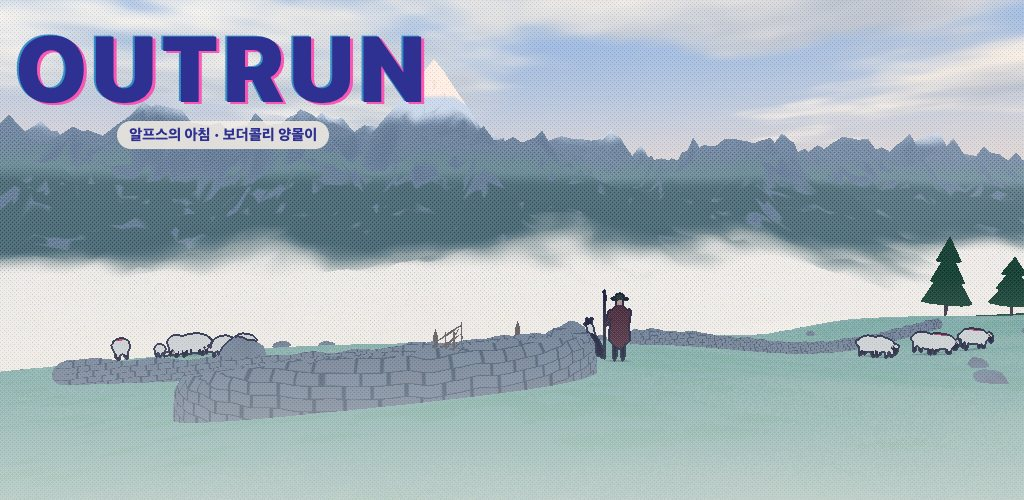
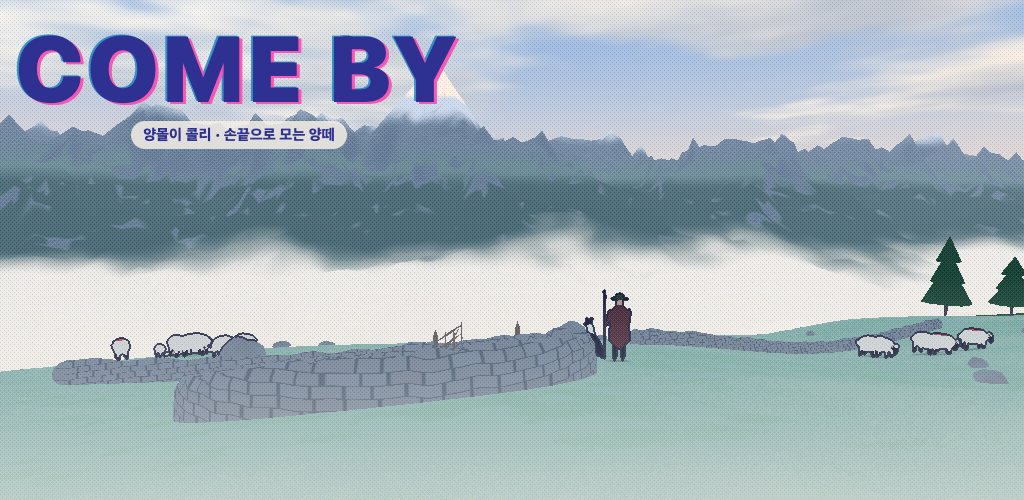
Rename the game: Come By: 양몰이 콜리

Changed region(s): [[0.0625, 0.06, 0.4688, 0.21], [0.0938, 0.24, 0.3438, 0.3]]

diff --git a/privacy.html b/privacy.html
@@ -3,7 +3,7 @@
 <head>
 <meta charset="utf-8">
 <meta name="viewport" content="width=device-width, initial-scale=1">
-<title>개인정보처리방침 — 아웃런: 보더콜리 양몰이</title>
+<title>개인정보처리방침 — Come By: 양몰이 콜리</title>
 <link rel="icon" href="assets/favicon.png">
 <style>
 :root{--paper:#F4EFE6;--paper2:#EAE2D2;--ink:#2E3192;--pink:#FF48B0}
@@ -20,9 +20,9 @@ hr{border:0;border-top:2px solid var(--ink);margin:40px 0}
 </head>
 <body>
 <div class="wrap">
-  <a class="back" href="./">← 아웃런</a>
+  <a class="back" href="./">← Come By</a>
   <h1>개인정보처리방침</h1>
-  <p class="meta">아웃런: 보더콜리 양몰이 · 개발자 sjhong · 시행일 2026년 9월 30일(광고 SDK 변경 반영)</p>
+  <p class="meta">Come By: 양몰이 콜리 · 개발자 sjhong · 시행일 2026년 9월 30일(광고 SDK 변경 반영)</p>
 
   <h2>1. 앱이 직접 수집하는 정보</h2>
   <p>앱은 이용자의 이름, 연락처, 계정 같은 개인정보를 수집하지 않으며 개발자의 서버로 아무것도 보내지 않습니다.
@@ -60,7 +60,7 @@ hr{border:0;border-top:2px solid var(--ink);margin:40px 0}
   <hr>
 
   <h1 id="en">Privacy Policy</h1>
-  <p class="meta">Outrun: Border Collie Herding · Developer sjhong · Effective 30 September 2026</p>
+  <p class="meta">Come By: Herding Collie · Developer sjhong · Effective 30 September 2026</p>
   <h2>1. Data the app collects itself</h2>
   <p>None. The app does not collect names, contacts or accounts and sends nothing to the developer's servers. Game progress
   and settings are stored only on your device and are removed when you delete the app.</p>

diff --git a/index.html b/index.html
@@ -3,7 +3,7 @@
 <head>
 <meta charset="utf-8">
 <meta name="viewport" content="width=device-width, initial-scale=1">
-<title>아웃런: 보더콜리 양몰이 — sjhong</title>
+<title>Come By: 양몰이 콜리 — sjhong</title>
 <meta name="description" content="손끝으로 보더콜리를 움직여 알프스의 양떼를 우리로 몰아넣는 모바일 게임. 개발: sjhong">
 <link rel="icon" href="assets/favicon.png">
 <style>
@@ -40,8 +40,8 @@ footer a{margin-right:14px}
   <header><span class="dev">sjhong</span><nav><a href="privacy.html">개인정보처리방침</a><a href="mailto:bio32177@gmail.com">문의</a></nav></header>
   <div class="hero"><img src="assets/hero.jpg" alt="알프스 운해 위로 솟은 봉우리와 돌담 우리, 목동과 보더콜리" width="1024" height="500"></div>
   <div class="title">
-    <img src="assets/icon.png" alt="아웃런 아이콘" width="88" height="88">
-    <div><h1>아웃런: 보더콜리 양몰이</h1><p class="tag">알프스의 아침 · 손끝으로 모는 양떼</p></div>
+    <img src="assets/icon.png" alt="Come By 아이콘" width="88" height="88">
+    <div><h1>Come By: 양몰이 콜리</h1><p class="tag">손끝으로 모는 보더콜리 양몰이</p></div>
   </div>
   <div class="badges"><span class="badge soon">Google Play 출시 예정</span><span class="badge soon">App Store 출시 예정</span></div>
 
